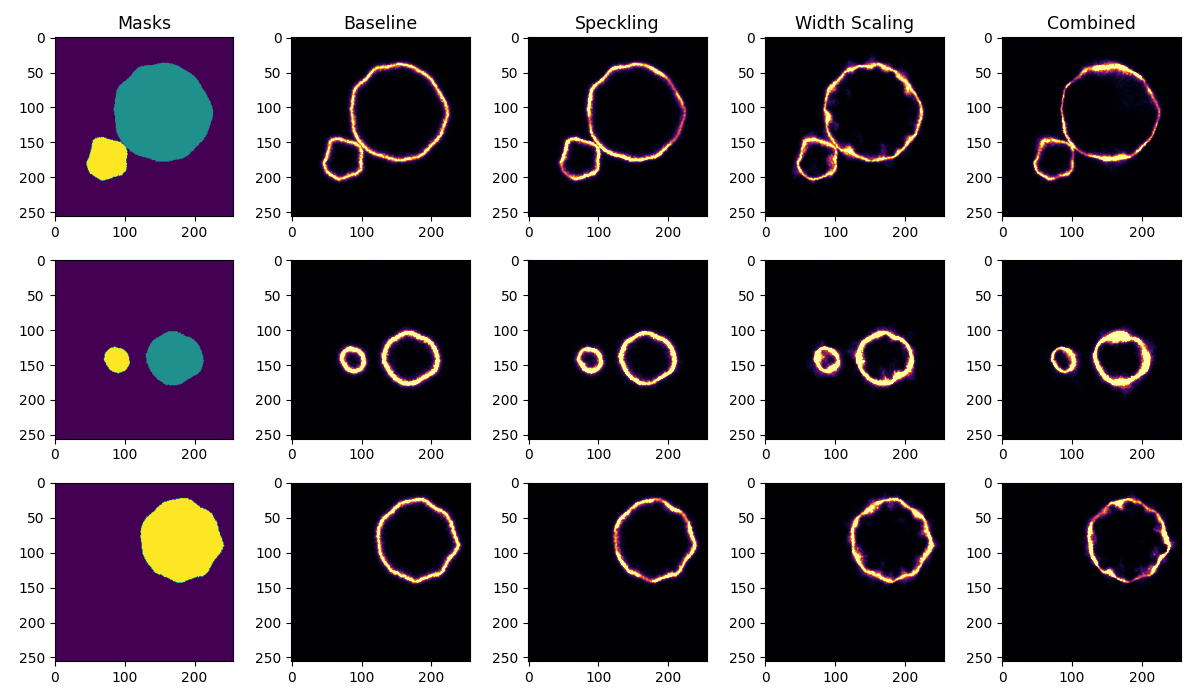
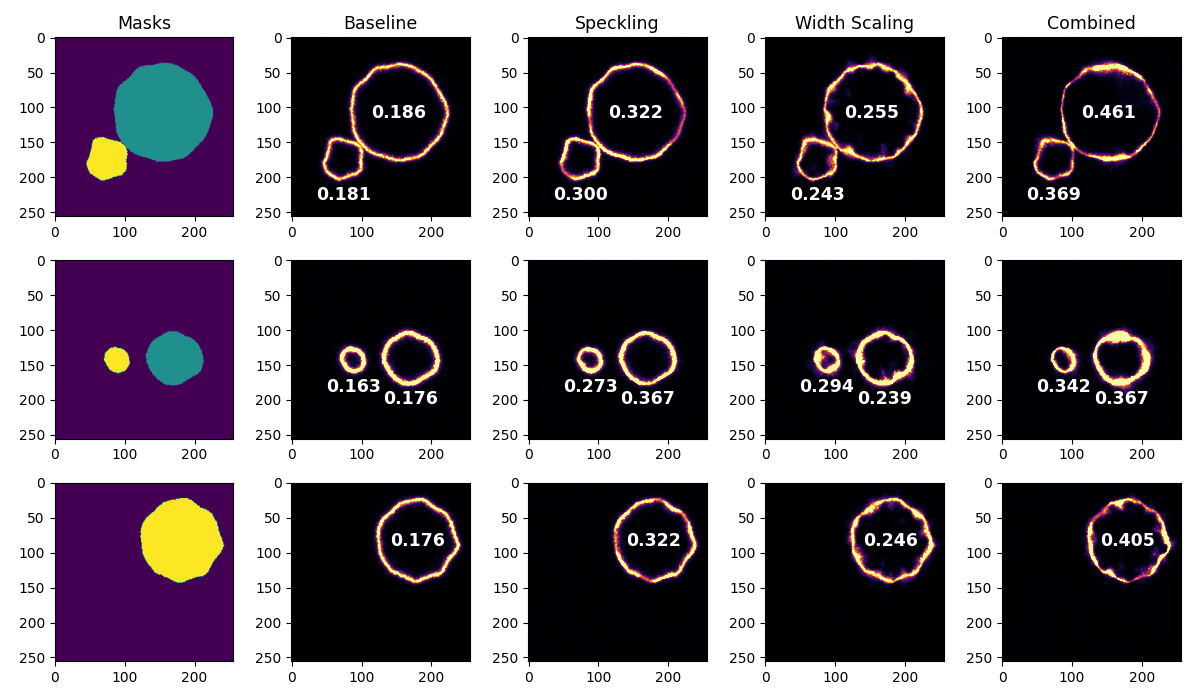
Surface Heterogeneity Annotated

diff --git a/main/.ipynb_checkpoints/plot-checkpoint.py b/main/.ipynb_checkpoints/plot-checkpoint.py
@@ -8,6 +8,7 @@ from tifffile import imread
 import h5py
 import argparse
 from utils.quality_measures import custom_het_i_calc # for surface heterogeneity
+from scipy.ndimage import center_of_mass
 
 parser = argparse.ArgumentParser(description='Sample Real Fluorecence for Synthetic Images.')
 parser.add_argument('--mode', default='tif',
@@ -15,6 +16,7 @@ parser.add_argument('--mode', default='tif',
 args = parser.parse_args()
 
 assert args.mode in ['tif']
+sampling = (.49,.1,.1)
 
 data_dir = 'synthetic_data/lipid_bilayer_vesicles/'
 masks = [imread(f'{data_dir}mask_{str(i+1).zfill(5)}.{args.mode}')[0] for i in range(3)]
@@ -43,6 +45,45 @@ for i in range(3):
     axes[i, 2].imshow(specking_imgs[i][zs], cmap='inferno', vmin=vmin, vmax=vmax)
     axes[i, 3].imshow(width_scaling_imgs[i][zs], cmap='inferno', vmin=vmin, vmax=vmax)
     axes[i, 4].imshow(combined_imgs[i][zs], cmap='inferno', vmin=vmin, vmax=vmax)
+
+    # annotate surface heterogeneity
+    for v in np.unique(masks[i][zs])[1:]:
+
+        base_het = custom_het_i_calc(baseline_imgs[i],
+                                     (masks[i] == v).astype(int),
+                                     spacing=sampling,
+                                     max_depth=1.0,
+                                     operation='mean')[0]
+        spec_het = custom_het_i_calc(specking_imgs[i],
+                                     (masks[i] == v).astype(int),
+                                     spacing=sampling,
+                                     max_depth=1.0,
+                                     operation='mean')[0]
+        wsca_het = custom_het_i_calc(width_scaling_imgs[i],
+                                     (masks[i] == v).astype(int),
+                                     spacing=sampling,
+                                     max_depth=1.0,
+                                     operation='mean')[0]
+        comb_het = custom_het_i_calc(combined_imgs[i],
+                                     (masks[i] == v).astype(int),
+                                     spacing=sampling,
+                                     max_depth=1.0,
+                                     operation='mean')[0]
+        
+        cm = center_of_mass(masks[i][zs]==v)
+
+        if np.sum(masks[i][zs]==v) < 7500: # smaller vesicles annotate below
+            xres, yres = masks[i][zs].shape
+            X,Y = np.meshgrid(np.arange(xres), np.arange(yres))
+
+            cm = (np.max(Y[masks[i][zs]==v]) + 20, cm[1])
+
+        axes[i, 1].annotate(f'{base_het:.3f}', (cm[1],cm[0]), color='w', va='center',ha='center', weight='bold', fontsize=12.5)
+        axes[i, 2].annotate(f'{spec_het:.3f}', (cm[1],cm[0]), color='w', va='center',ha='center', weight='bold', fontsize=12.5)
+        axes[i, 3].annotate(f'{wsca_het:.3f}', (cm[1],cm[0]), color='w', va='center',ha='center', weight='bold', fontsize=12.5)
+        axes[i, 4].annotate(f'{comb_het:.3f}', (cm[1],cm[0]), color='w', va='center',ha='center', weight='bold', fontsize=12.5)
+
+        
 
 axes[0,0].set_title('Masks', fontsize=fs)
 axes[0,1].set_title('Baseline', fontsize=fs)

diff --git a/main/plot.py b/main/plot.py
@@ -8,6 +8,7 @@ from tifffile import imread
 import h5py
 import argparse
 from utils.quality_measures import custom_het_i_calc # for surface heterogeneity
+from scipy.ndimage import center_of_mass
 
 parser = argparse.ArgumentParser(description='Sample Real Fluorecence for Synthetic Images.')
 parser.add_argument('--mode', default='tif',
@@ -44,6 +45,45 @@ for i in range(3):
     axes[i, 2].imshow(specking_imgs[i][zs], cmap='inferno', vmin=vmin, vmax=vmax)
     axes[i, 3].imshow(width_scaling_imgs[i][zs], cmap='inferno', vmin=vmin, vmax=vmax)
     axes[i, 4].imshow(combined_imgs[i][zs], cmap='inferno', vmin=vmin, vmax=vmax)
+
+    # annotate surface heterogeneity
+    for v in np.unique(masks[i][zs])[1:]:
+
+        base_het = custom_het_i_calc(baseline_imgs[i],
+                                     (masks[i] == v).astype(int),
+                                     spacing=sampling,
+                                     max_depth=1.0,
+                                     operation='mean')[0]
+        spec_het = custom_het_i_calc(specking_imgs[i],
+                                     (masks[i] == v).astype(int),
+                                     spacing=sampling,
+                                     max_depth=1.0,
+                                     operation='mean')[0]
+        wsca_het = custom_het_i_calc(width_scaling_imgs[i],
+                                     (masks[i] == v).astype(int),
+                                     spacing=sampling,
+                                     max_depth=1.0,
+                                     operation='mean')[0]
+        comb_het = custom_het_i_calc(combined_imgs[i],
+                                     (masks[i] == v).astype(int),
+                                     spacing=sampling,
+                                     max_depth=1.0,
+                                     operation='mean')[0]
+        
+        cm = center_of_mass(masks[i][zs]==v)
+
+        if np.sum(masks[i][zs]==v) < 7500: # smaller vesicles annotate below
+            xres, yres = masks[i][zs].shape
+            X,Y = np.meshgrid(np.arange(xres), np.arange(yres))
+
+            cm = (np.max(Y[masks[i][zs]==v]) + 20, cm[1])
+
+        axes[i, 1].annotate(f'{base_het:.3f}', (cm[1],cm[0]), color='w', va='center',ha='center', weight='bold', fontsize=12.5)
+        axes[i, 2].annotate(f'{spec_het:.3f}', (cm[1],cm[0]), color='w', va='center',ha='center', weight='bold', fontsize=12.5)
+        axes[i, 3].annotate(f'{wsca_het:.3f}', (cm[1],cm[0]), color='w', va='center',ha='center', weight='bold', fontsize=12.5)
+        axes[i, 4].annotate(f'{comb_het:.3f}', (cm[1],cm[0]), color='w', va='center',ha='center', weight='bold', fontsize=12.5)
+
+        
 
 axes[0,0].set_title('Masks', fontsize=fs)
 axes[0,1].set_title('Baseline', fontsize=fs)